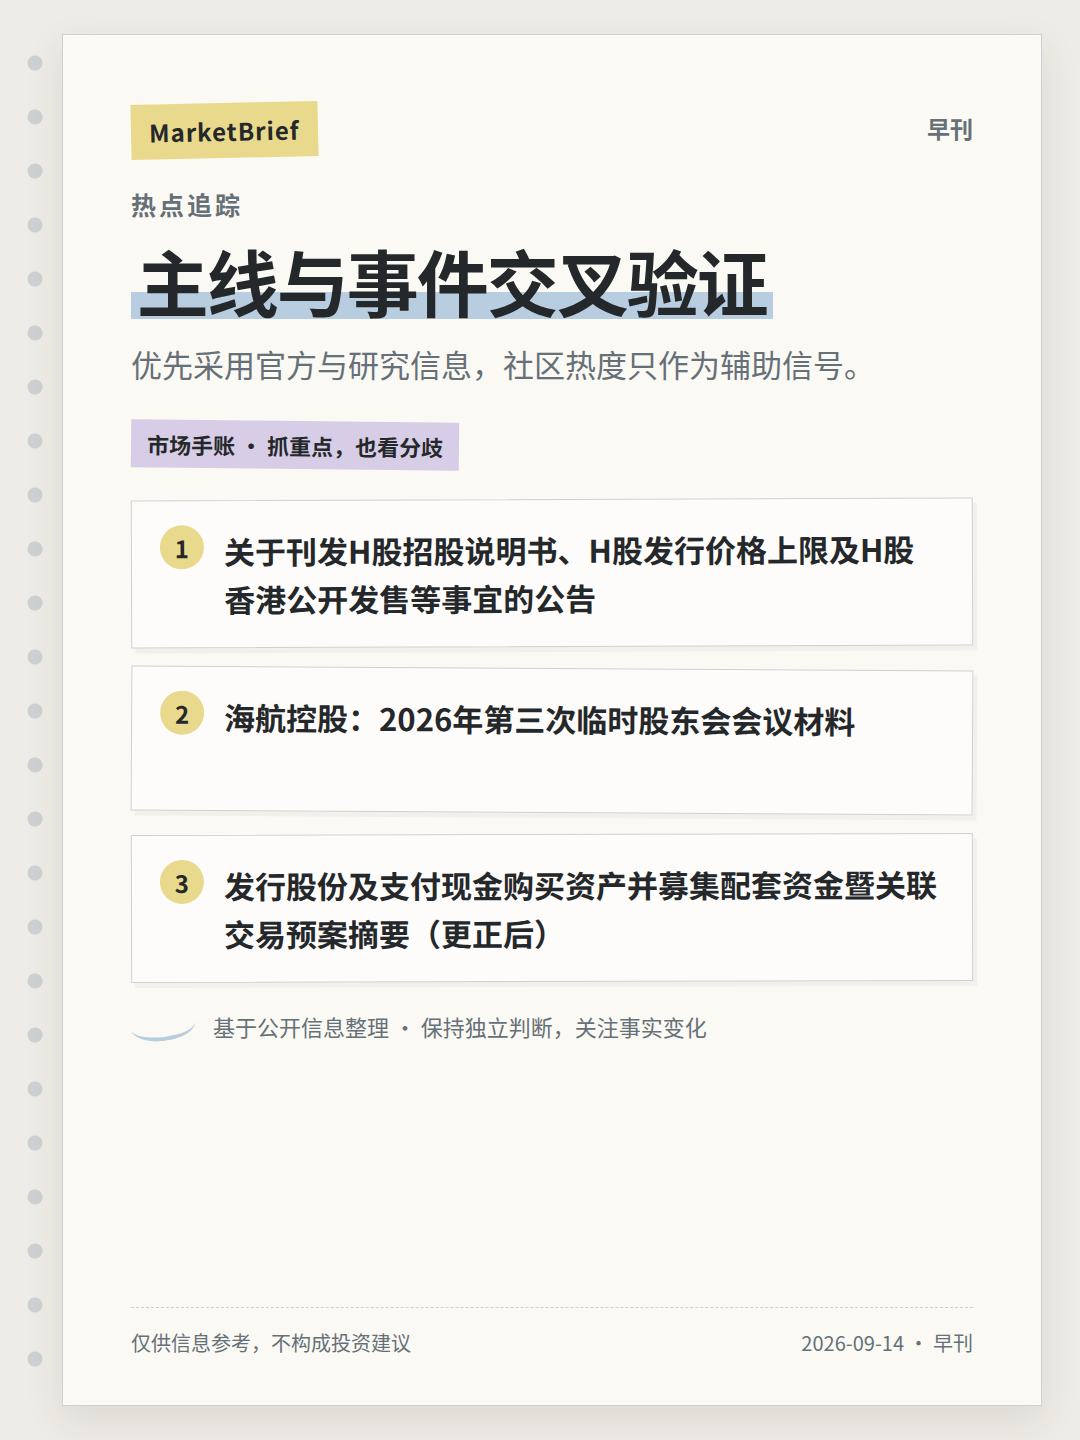
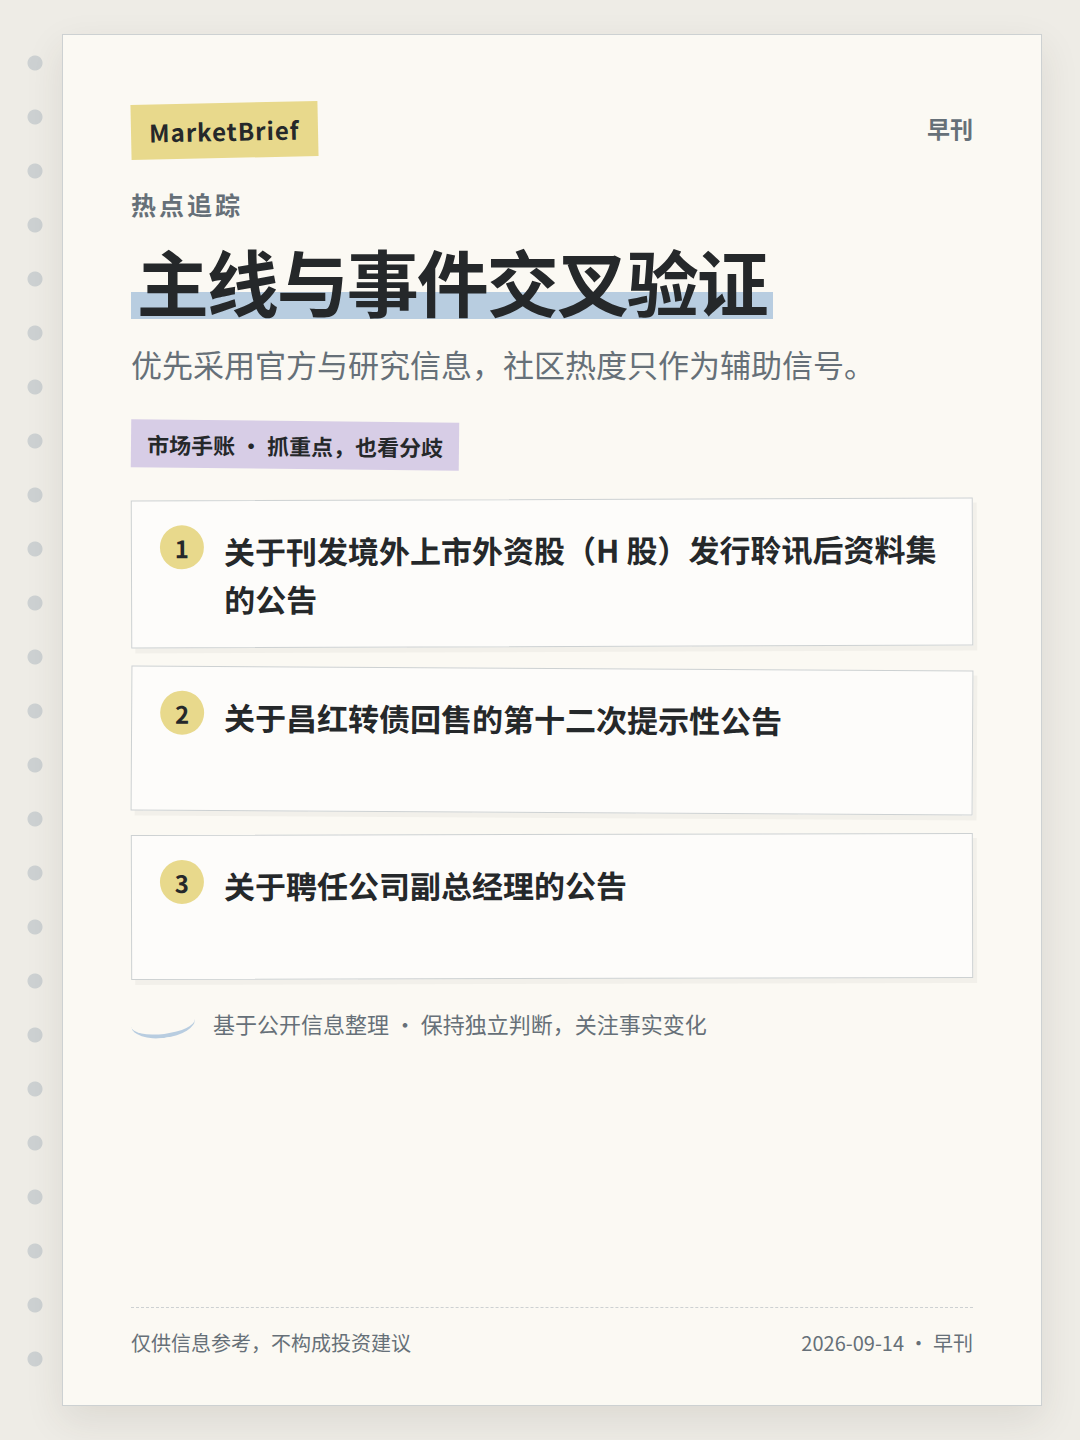
MarketBrief: publish hardened dated edition

Changed region(s): [[0.1833, 0.5938, 0.8861, 0.7188], [0.2139, 0.4688, 0.7944, 0.5312], [0.2139, 0.375, 0.8861, 0.4375]]

diff --git a/output/marketbrief/2026-09-14/am/2026-09-14-am-04.html b/output/marketbrief/2026-09-14/am/2026-09-14-am-04.html
@@ -27,7 +27,7 @@ footer{position:absolute;z-index:1;left:68px;right:68px;bottom:48px;border-top:1
 <h1><span>主线与事件交叉验证</span></h1>
 <div class="sub">优先采用官方与研究信息，社区热度只作为辅助信号。</div>
 <div class="ribbon">市场手账 · 抓重点，也看分歧</div>
-<div class="notes"><section class="note"><b>1</b><p>关于刊发H股招股说明书、H股发行价格上限及H股香港公开发售等事宜的公告</p></section><section class="note"><b>2</b><p>海航控股：2026年第三次临时股东会会议材料</p></section><section class="note"><b>3</b><p>发行股份及支付现金购买资产并募集配套资金暨关联交易预案摘要（更正后）</p></section></div>
+<div class="notes"><section class="note"><b>1</b><p>关于刊发境外上市外资股（H 股）发行聆讯后资料集的公告</p></section><section class="note"><b>2</b><p>关于昌红转债回售的第十二次提示性公告</p></section><section class="note"><b>3</b><p>关于聘任公司副总经理的公告</p></section></div>
 <div class="margin"><span class="sketch"></span><span>基于公开信息整理 · 保持独立判断，关注事实变化</span></div>
 <footer><span>仅供信息参考，不构成投资建议</span><span>2026-09-14 · 早刊</span></footer>
 </main></body></html>

diff --git a/output/marketbrief/2026-09-14/am/2026-09-14-am-05.html b/output/marketbrief/2026-09-14/am/2026-09-14-am-05.html
@@ -27,7 +27,7 @@ footer{position:absolute;z-index:1;left:68px;right:68px;bottom:48px;border-top:1
 <h1><span>事实、观点与情绪分开看</span></h1>
 <div class="sub">先看已确认事实，再看研究判断和市场情绪是否一致。</div>
 <div class="ribbon">市场手账 · 抓重点，也看分歧</div>
-<div class="notes"><section class="note"><b>1</b><p>关于刊发H股招股说明书、H股发行价格上限及H股香港公开发售等事宜的公告</p></section><section class="note"><b>2</b><p>晨会纪要</p></section><section class="note"><b>3</b><p>继续观察公开信息变化，避免仅凭单一信号下结论。</p></section></div>
+<div class="notes"><section class="note"><b>1</b><p>关于刊发境外上市外资股（H 股）发行聆讯后资料集的公告</p></section><section class="note"><b>2</b><p>晨会纪要</p></section><section class="note"><b>3</b><p>继续观察公开信息变化，避免仅凭单一信号下结论。</p></section></div>
 <div class="margin"><span class="sketch"></span><span>基于公开信息整理 · 保持独立判断，关注事实变化</span></div>
 <footer><span>仅供信息参考，不构成投资建议</span><span>2026-09-14 · 早刊</span></footer>
 </main></body></html>

diff --git a/output/marketbrief/2026-09-14/am/brief.md b/output/marketbrief/2026-09-14/am/brief.md
@@ -20,15 +20,15 @@
 
 优先采用官方与研究信息，社区热度只作为辅助信号。
 
-- 关于刊发H股招股说明书、H股发行价格上限及H股香港公开发售等事宜的公告
-- 海航控股：2026年第三次临时股东会会议材料
-- 发行股份及支付现金购买资产并募集配套资金暨关联交易预案摘要（更正后）
+- 关于刊发境外上市外资股（H 股）发行聆讯后资料集的公告
+- 关于昌红转债回售的第十二次提示性公告
+- 关于聘任公司副总经理的公告
 
 ## 事实、观点与情绪分开看
 
 先看已确认事实，再看研究判断和市场情绪是否一致。
 
-- 关于刊发H股招股说明书、H股发行价格上限及H股香港公开发售等事宜的公告
+- 关于刊发境外上市外资股（H 股）发行聆讯后资料集的公告
 - 晨会纪要
 
 ## 后续变量仍需确认
@@ -47,5 +47,5 @@
 本文仅作公开信息整理与讨论，不构成任何投资建议。
 
 刊期：2026-09-14 早刊  
-生成时间：2026-09-14T11:42:01+08:00  
+生成时间：2026-09-14T11:55:59+08:00  
 模型：`SenseNova` · 调用 0 次 · Token 0
